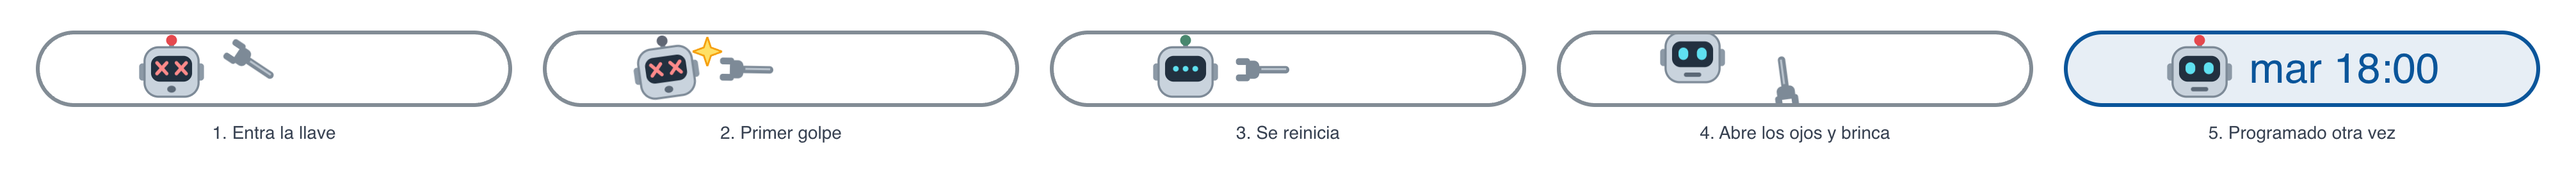
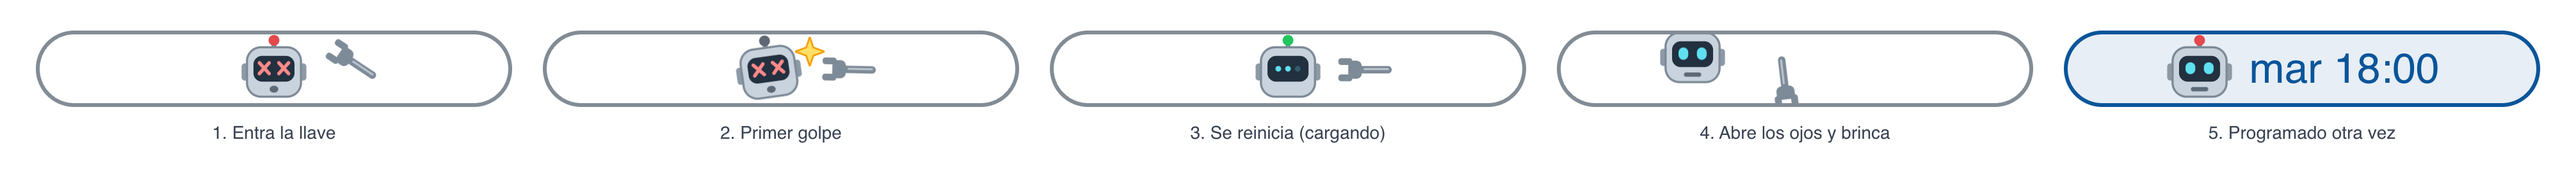
docs(seguimientos): escenas que arrancan al presionar; captura de la llave en dos tiempos

diff --git a/docs/mapa-crm.md b/docs/mapa-crm.md
@@ -504,7 +504,7 @@ y se mandan fotos y videos de la Biblioteca (📎 › Multimedia); cerrada, solo
 | 45 | **Archivo de Multimedia** | Miniatura (la foto, o el segundo 2 del video: los de instalación empiezan en blanco), nombre y tipo. La miniatura se hace sola al subir el archivo a la Biblioteca; no se descarga nada al abrir Multimedia. Tocarlo lo agrega a la vista previa (33); tocarlo otra vez lo quita. | Todos |
 | 46 | **Número de orden** | En qué lugar sale (1, 2, 3…); es el mismo número de la vista previa. El texto de la caja va como pie del 1. | Todos |
 | 47 | **Cerrar** | Cierra Multimedia; lo elegido se queda en la vista previa. Al enviar se cierra solo. | Todos |
-| 48 | **🤖 Seguimiento** (píldora) | Solo sale cuando el chat tiene un [seguimiento del Agente IA](#glosario). Va **en el hueco de la barra arriba de ⚡ 📄 📎** (en el celular, al final del renglón de iconos; con la ventana cerrada, junto a "Enviar plantilla") y no agranda la barra. Mide **lo mismo que ⚡ 📄 📎** (nunca más ancha: así la caja para escribir no se encoge con la lista y el Detalle abiertos; 6-oct-2026) y dice solo cuándo sale, hora de Mazatlán (**«🤖 mañana 17:00»**) o «🤖 esperando» tras el último intento. El tipo lo dicen la **carita del robot** (imagen propia, 6-oct-2026) y el color: robot normal azul = sale solo; robot **dormido** ámbar = **suspendido** (Pausar agente puesto a mano: no sale solo hasta «Que salga solo»); robot con **ojos en X** gris = **Cancelado** (se queda así hasta **Reactivar seguimientos**, 63) o rojo = **Se dio de baja** (64). **Cancelado** y el robot dormido gris van **sin palabra**, solo la carita en medio de la píldora (7-oct-2026): lo que pasa lo dicen la carita y su ventana; robot **dormido gris** = no hay nada que seguir por ahora (69); gris punteada = ensayo. Desde el 7-oct-2026 la píldora **siempre está** en todos los chats (antes desaparecía si el cliente contestaba o compraba), y «esperando» se queda mientras el último mensaje sea nuestro aunque ya no queden intentos. El texto completo sale al pasar el ratón; el de la píldora no se puede seleccionar (6-oct-2026). **Escenas del robot** (9-oct-2026): cuando la píldora cambia con el chat abierto juega una animación corta dentro de ella: **disparo** al pasar a Cancelado (Cancelar, 56, o Apagar seguimientos en este chat, 69): sale una pistola por la izquierda, le dispara, el robot hace cortocircuito (chispas y cables que le brincan de la cabeza) y queda con ojos en X; la pistola gira como de vaquero y se regresa (1.9 s). **Llave inglesa** al Reactivar (63): entra por la derecha, le da dos golpes, se reinicia y abre los ojos y brinca, o bosteza y se vuelve a dormir si todavía no hay seguimiento (2.2 s). **Ojos de reloj** al Cambiar hora (53): giran y la hora de antes se va mientras llega la nueva (1.5 s; con el robot dormido no sale). **Despertador** en Que salga solo (55): suena, el robot despierta, lo apaga y la píldora pasa a azul (2 s). **Avioncito de papel** cuando sale un mensaje del seguimiento: cruza la píldora y llega la hora del siguiente o «esperando» (1.8 s; no sale si el mensaje falló ni en ensayo). Las ve todo el que tenga ese chat abierto, vendedor o admin, lo haya hecho él u otro; al abrir un chat no sale ninguna, y con «reducir movimiento» del sistema queda directo la carita. Clic abre su burbuja (49). | Todos |
+| 48 | **🤖 Seguimiento** (píldora) | Solo sale cuando el chat tiene un [seguimiento del Agente IA](#glosario). Va **en el hueco de la barra arriba de ⚡ 📄 📎** (en el celular, al final del renglón de iconos; con la ventana cerrada, junto a "Enviar plantilla") y no agranda la barra. Mide **lo mismo que ⚡ 📄 📎** (nunca más ancha: así la caja para escribir no se encoge con la lista y el Detalle abiertos; 6-oct-2026) y dice solo cuándo sale, hora de Mazatlán (**«🤖 mañana 17:00»**) o «🤖 esperando» tras el último intento. El tipo lo dicen la **carita del robot** (imagen propia, 6-oct-2026) y el color: robot normal azul = sale solo; robot **dormido** ámbar = **suspendido** (Pausar agente puesto a mano: no sale solo hasta «Que salga solo»); robot con **ojos en X** gris = **Cancelado** (se queda así hasta **Reactivar seguimientos**, 63) o rojo = **Se dio de baja** (64). **Cancelado** y el robot dormido gris van **sin palabra**, solo la carita en medio de la píldora (7-oct-2026): lo que pasa lo dicen la carita y su ventana; robot **dormido gris** = no hay nada que seguir por ahora (69); gris punteada = ensayo. Desde el 7-oct-2026 la píldora **siempre está** en todos los chats (antes desaparecía si el cliente contestaba o compraba), y «esperando» se queda mientras el último mensaje sea nuestro aunque ya no queden intentos. El texto completo sale al pasar el ratón; el de la píldora no se puede seleccionar (6-oct-2026). **Escenas del robot** (9-oct-2026): cuando la píldora cambia con el chat abierto juega una animación corta dentro de ella: **disparo** al pasar a Cancelado (Cancelar, 56, o Apagar seguimientos en este chat, 69): sale una pistola por la izquierda, le dispara, el robot hace cortocircuito (chispas y cables que le brincan de la cabeza) y queda con ojos en X; la pistola gira como de vaquero y se regresa (1.9 s). **Llave inglesa** al Reactivar (63): entra por la derecha y le da dos golpes; el robot se queda «cargando» hasta que el CRM responde y entonces abre los ojos y brinca (se desliza a su lugar cuando llega la hora), o bosteza y se vuelve a dormir si todavía no hay seguimiento (2.2 s o más si el CRM tarda). **Ojos de reloj** al Cambiar hora (53): giran y la hora de antes se va mientras llega la nueva (1.5 s; con el robot dormido no sale). **Despertador** en Que salga solo (55): suena, el robot despierta, lo apaga y la píldora pasa a azul (2 s). **Avioncito de papel** cuando sale un mensaje del seguimiento: cruza la píldora y llega la hora del siguiente o «esperando» (1.8 s; no sale si el mensaje falló ni en ensayo). Arrancan **al presionar el botón** (9-oct-2026: antes tardaban 1–2 s en empezar); si el CRM no deja hacer el cambio (p. ej. una hora fuera de horario), la píldora regresa sola, sin escena, y sale el aviso. Las ve todo el que tenga ese chat abierto, vendedor o admin, lo haya hecho él u otro; al abrir un chat no sale ninguna, y con «reducir movimiento» del sistema queda directo la carita. Clic abre su burbuja (49). | Todos |
 | 49 | **Seguimiento del Agente IA** (burbuja) | Arriba de la caja, como Mensajes rápidos. Encabezado (6-oct-2026): la carita del robot según el estado (más grande desde el 7-oct-2026, sin agrandar el encabezado), el título y, junto a la ✕, el **estado**: **Programado** (azul), **Suspendido** (ámbar: Pausar agente puesto a mano), **Esperando respuesta** (ya salieron todos los mensajes), **Dormido** (gris: nada que seguir, 69), **Cancelado** (gris) o **Se dio de baja** (rojo); **Ensayo** solo con el interruptor de Opciones en Ensayo. La **✕ roja** (como en el visor de archivos, sin la palabra «Cerrar») o Esc la cierra. Títulos, preguntas y botones no se pueden seleccionar; las respuestas y el mensaje sí (para copiarlos). | Todos |
 | 50 | **¿Dónde se quedó el chat? · ¿Qué busca el seguimiento?** | Dos preguntas cortas: lo que quedó abierto (p. ej. «Falta el ancho de la entrada, medido de lado a lado en centímetros.») y lo que debe conseguir el mensaje en este chat (si no hay, el «Qué busca» del caso, 90). Lo escribe el Agente IA en segundo plano. | Todos |
 | 51 | **¿Cuándo sale el 2.º mensaje?** | A qué hora sale (Mazatlán: «hoy 20:00», «mañana 10:00», «mar 13 oct, 18:00») y, si es distinta, **su hora** (la del cliente según su lada); «hora puesta a mano» si un vendedor la cambió. Tras el último mensaje dice **¿Y ahora?**: «Ya salieron los 2 mensajes. Si no contesta antes del …, pasa a frío.»; pasado ese plazo, «… y no ha contestado (pasó a frío)». Debajo, un renglón por mensaje que ya salió: «✓ 1.er mensaje: salió hoy 17:15» (en ensayo: «habría salido»; un seguimiento que mandó un vendedor: «lo mandó un vendedor»; ✗ y el motivo si no salió). Desde el 6-oct-2026 ya no dice «Por dónde» ni el nombre de la plantilla: el mensaje exacto se ve con Ver mensaje (52). | Todos |
@@ -519,7 +519,7 @@ y se mandan fotos y videos de la Biblioteca (📎 › Multimedia); cerrada, solo
 | 60 | **Secciones de plantillas** | «Saludo de Daniel» (las `daniel_*`), «Seguimiento» (las `seg_*`) y «Otras». Las vacías no salen. | Todos |
 | 61 | **Hasta cuándo sale el texto** | Línea arriba de Mensaje a enviar (21): «El texto solo puede salir mientras la ventana de 24 h esté abierta: hasta mié 7 oct, 3:21 p.m. (Mazatlán). Para después, usa una plantilla.» En Instagram, lo mismo con su límite de 7 días. | Todos |
 | 62 | **Plantillas a cualquier hora** | Línea arriba de Elegir plantilla en el 🕒: «Las plantillas aprobadas por Meta se pueden mandar a cualquier hora, aunque la ventana esté cerrada.» | Todos |
-| 63 | **Reactivar seguimientos** | En la burbuja de una píldora «Cancelado» (con la etiqueta «Cancelado» junto a la ✕): dice quién los canceló y cuándo; al pulsarlo, el último seguimiento vuelve a programarse si el chat no cambió; si cambió, el Agente IA vuelve a leer el chat en un minuto o dos y arma uno nuevo si el último mensaje es nuestro (mientras tanto la píldora dice «dormido»; 7-oct-2026: antes la píldora podía quedarse sin nada). La píldora hace la **llave inglesa** (48). Lo pueden hacer vendedores y admins. | Todos |
+| 63 | **Reactivar seguimientos** | En la burbuja de una píldora «Cancelado» (con la etiqueta «Cancelado» junto a la ✕): dice quién los canceló y cuándo; al pulsarlo, el último seguimiento vuelve a programarse si el chat no cambió; si cambió, el Agente IA vuelve a leer el chat en un minuto o dos y arma uno nuevo si el último mensaje es nuestro (mientras tanto la píldora dice «dormido»; 7-oct-2026: antes la píldora podía quedarse sin nada). La píldora hace la **llave inglesa** (48) al instante y espera «cargando» la respuesta. Lo pueden hacer vendedores y admins. | Todos |
 | 64 | **WhatsApp no entregó el seguimiento** (aviso rojo) | Se abre solo una vez (por computadora) cuando el cliente **se dio de baja de las promociones** de Diluvium (error 131050): el seguimiento ya se canceló y no se le mandan más plantillas; si escribe, se le contesta normal. **Entendido** lo cierra; **Volver a darle seguimiento** quita la marca. | Todos |
 | 65 | **Calendario** (campo) | Muestra la fecha y la hora como «13/10/2026, 06:00 p.m.» con un ícono de calendario; al tocarlo se abre el calendario del CRM (66–68) debajo o arriba del campo. Esc o un clic afuera lo cierran (Esc no cierra la ventana de atrás). En el celular abre el selector del teléfono. Igual en todo el CRM (ver [Calendario](#glosario)). | Todos |
 | 66 | **Mes ▾ · ↑ ↓** | El mes y el año; al tocarlo salen los 12 meses para saltar a otro. Las flechas pasan al mes anterior o al siguiente (con los meses abiertos, al año). **Deslizar hacia abajo** sobre los días (un dedo en el Magic Mouse, dos en el trackpad) pasa al mes siguiente y **hacia arriba** al anterior, con el mismo gesto del visor de archivos (los días siguen al dedo y el mes nuevo entra deslizándose). | Todos |

diff --git a/docs/seguimientos.md b/docs/seguimientos.md
@@ -697,11 +697,16 @@ prototipos (tamaño real y ampliado) antes de construirlas; el dueño aprobó la
 | Escena | Cuándo | Qué se ve | Dura |
 |---|---|---|---|
 | **Disparo** | Pasa a Cancelado (Cancelar o Apagar seguimientos en este chat) | Pistola por la izquierda, cortocircuito, tres cables, ojos en X; la pistola gira y se va | 1.9 s |
-| **Llave inglesa** | Sale de Cancelado (Reactivar) | Entra por la derecha, dos golpes, «cargando» y abre los ojos y brinca; si queda sin seguimiento todavía (dormido o suspendido), bosteza y se duerme | 2.2 s |
+| **Llave inglesa** | Sale de Cancelado (Reactivar) | Entra por la derecha, dos golpes y «cargando» hasta la respuesta; abre los ojos y brinca (se desliza si llega la hora) o, si queda sin seguimiento todavía (dormido o suspendido), bosteza y se duerme | 1 s + espera + 1.2 s |
 | **Reloj** | El mismo seguimiento cambia de hora con el robot despierto (Cambiar hora) | Ojos de reloj que giran; la hora de antes sube y la nueva llega desde abajo | 1.5 s |
 | **Despertador** | El mismo seguimiento deja de estar suspendido (Que salga solo) | Suena, el robot despierta, lo apaga y la píldora pasa de ámbar a azul | 2 s |
 | **Avioncito** | El mismo seguimiento tiene un mensaje más y sí salió | Lanza un avioncito de papel que cruza la píldora; llega la hora siguiente o «esperando» | 1.8 s |
 
+- **Arranca al presionar** (9-oct-2026, pedido del dueño: en staging tardaba 1–2 s porque esperaba la acción y otra consulta,
+  y Next atiende las acciones de una en una): los botones de la ventana ANTICIPAN cómo quedará la píldora (`useFollowUp` ›
+  `anticipar`) y el servidor solo confirma; si rechaza, la píldora regresa sin escena (`revertir` sube `silencio`). Reactivar no se
+  puede anticipar (programado o dormido según el chat): la llave golpea al instante (`reparacion-golpes`, 1 s mínimo), el robot
+  queda «cargando» y `reactivarSeguimientos` trae el estado nuevo para el final. Medido en local: 5–22 ms del clic a la escena.
 - **Quién la ve** (decisión del dueño): todo el que tenga el chat abierto cuando cambia, vendedor o admin, lo haya hecho
   él u otro. Al abrir un chat no se juega ninguna. Con «reducir movimiento» se ve directo la carita final, que es la de
   `public/emoji/` del estado nuevo.
@@ -709,7 +714,7 @@ prototipos (tamaño real y ampliado) antes de construirlas; el dueño aprobó la
   (suspendido); un mensaje que falló o en ensayo; un seguimiento nuevo que arma el Agente IA; «Volver a darle seguimiento».
 - La llave entra por la **derecha** (el prototipo la traía por la izquierda): con la hora en la píldora el robot queda
   pegado a la orilla izquierda y ahí no cabe; la hora se esconde mientras dura y aparece al final.
-- Código: `robot-escena-cuando.ts` (qué escena toca, con pruebas en `robot-escena-cuando.test.ts`), `robot-escena.tsx`
+- Código: `robot-escena-cuando.ts` (qué escena toca y la máquina de golpes → final, con pruebas en `robot-escena-cuando.test.ts`), `robot-escena.tsx`
   (solo dibujo, robot en SVG en línea), `useRobotEscena` en `followup-pill.tsx` (la juega, conserva el color de antes
   hasta el cambio y la quita al terminar) y `app/globals.css` › «Robot del seguimiento» (tiempos; `--re-d` igual que
   `ESCENA_MS`). En chico los detalles finos casi no se ven; el dueño lo aceptó así.
